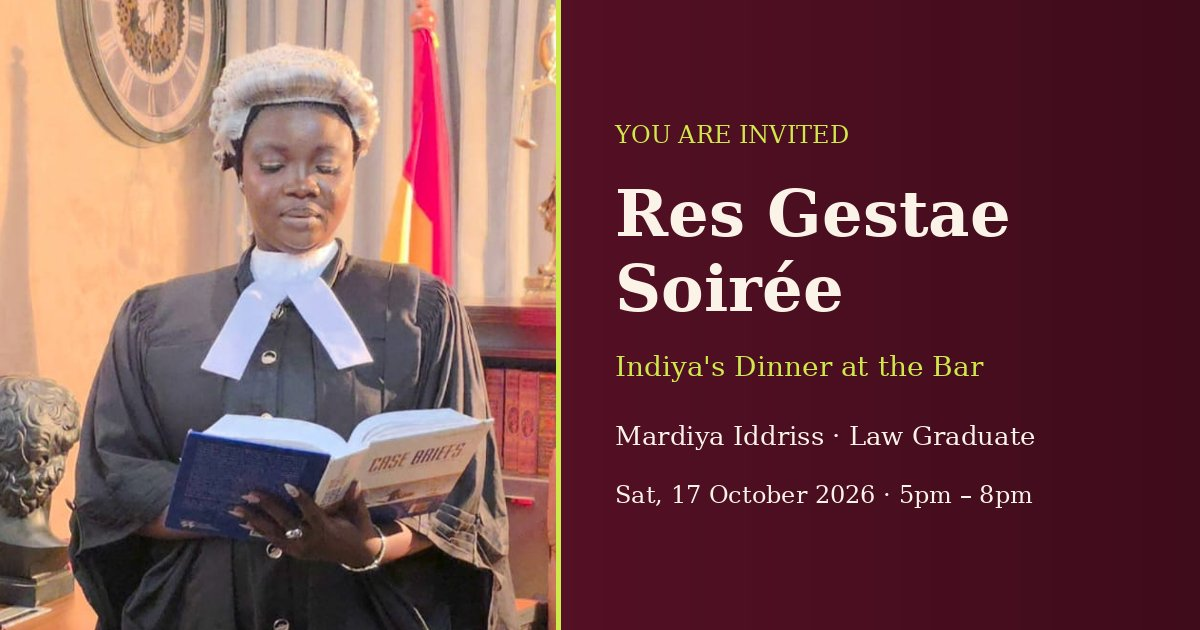
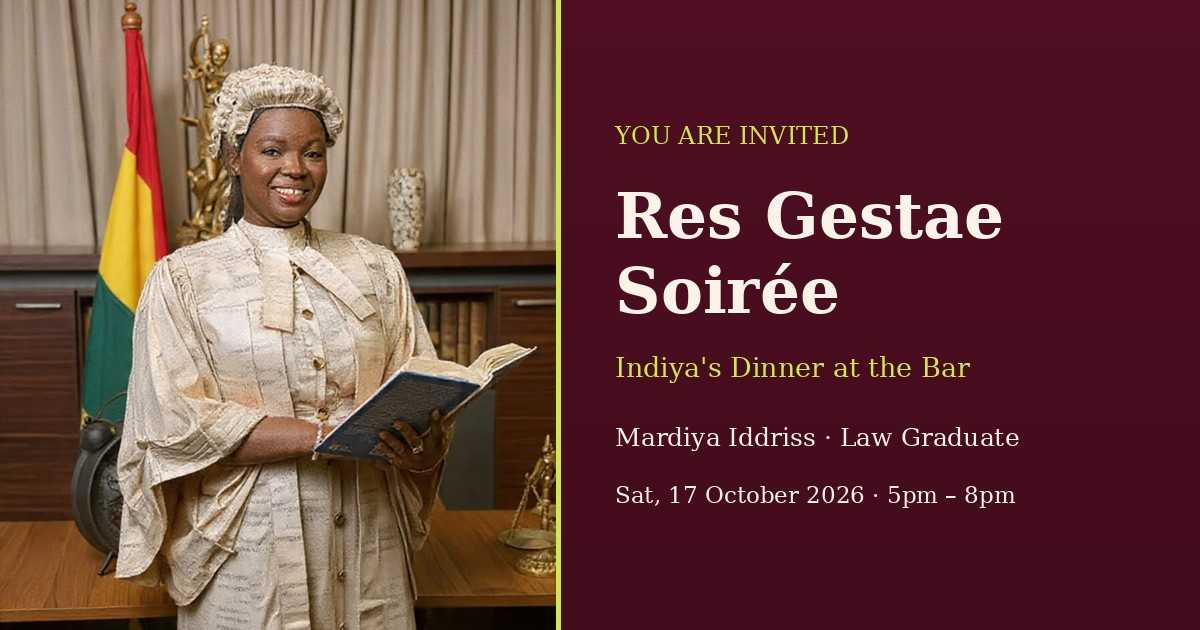
Add files via upload

diff --git a/index.html b/index.html
@@ -54,16 +54,27 @@
 
   /* hero */
   .hero{
-    position:relative; min-height:100svh; display:flex; flex-direction:column; align-items:center; justify-content:center;
-    text-align:center; padding:110px 24px 100px; color:var(--hero-text); overflow:hidden;
+    position:relative; display:flex; flex-direction:column; color:var(--hero-text); overflow:hidden;
     background:linear-gradient(180deg, #5e1428 0%, #4a0f20 50%, #3f0c1b 100%), var(--wine-deep);
+  }
+  .hero-photo{position:relative; width:100%; aspect-ratio:4/4.7; max-height:74svh; animation:fade 1.4s ease both;}
+  .hero-photo img{display:block; width:100%; height:100%; object-fit:cover; object-position:50% 26%;
+    -webkit-mask-image:linear-gradient(180deg,#000 52%,transparent 100%); mask-image:linear-gradient(180deg,#000 52%,transparent 100%);}
+  .hero-photo::after{content:""; position:absolute; inset:0; pointer-events:none; background:linear-gradient(180deg,rgba(63,12,27,.28) 0%,transparent 30%);}
+  .hero-text{position:relative; display:flex; flex-direction:column; align-items:center; text-align:center; padding:0 24px 84px; margin-top:-56px;}
+  .hero-text > *{position:relative; animation:up .9s ease both;}
+  .hero-text .eyebrow,.hero-text .prog{text-shadow:0 2px 14px rgba(40,6,16,.65);}
+  @keyframes fade{from{opacity:0;}to{opacity:1;}}
+  @media (min-width:900px){
+    .hero{display:grid; grid-template-columns:1.05fr 1fr; min-height:100svh;}
+    .hero-photo{aspect-ratio:auto; max-height:none; height:100%;}
+    .hero-photo img{position:absolute; inset:0; object-position:50% 22%;
+      -webkit-mask-image:linear-gradient(90deg,#000 62%,transparent 100%); mask-image:linear-gradient(90deg,#000 62%,transparent 100%);}
+    .hero-photo::after{background:linear-gradient(180deg,rgba(63,12,27,.3) 0%,transparent 25%);}
+    .hero-text{margin:0; padding:90px 56px 90px 8px; justify-content:center;}
   }
   .hero::before{content:""; position:absolute; inset:14px; border:1px solid rgba(207,232,74,.7); pointer-events:none;}
   .hero::after{content:""; position:absolute; inset:21px; border:1px solid rgba(207,232,74,.28); pointer-events:none;}
-  .hero > *{position:relative; animation:up .9s ease both;}
-  .hero > .corner{position:absolute; width:clamp(78px,24vw,130px); height:auto; pointer-events:none; animation:none; z-index:1;}
-  .corner.tl{top:22px; left:22px;} .corner.tr{top:22px; right:22px;}
-  .corner.bl{bottom:22px; left:22px;} .corner.br{bottom:22px; right:22px;}
   @keyframes up{from{opacity:0; transform:translateY(14px);}to{opacity:1; transform:none;}}
   .hero .eyebrow{color:var(--lime);}
   .prog{font-family:'Pinyon Script',cursive; font-size:clamp(54px,15vw,92px); line-height:1; margin:18px 0 4px; color:var(--hero-text);}
@@ -177,8 +188,6 @@
   .photo .ph{border-radius:999px 999px 6px 6px;}
   .photo .ph::after{display:none;}
   .portrait .cap-top{position:absolute; top:-40px; left:50%; width:104px; transform:translateX(-50%); z-index:3; filter:drop-shadow(0 4px 6px rgba(0,0,0,.35));}
-  .portrait .fl-bl,.portrait .fl-br{position:absolute; bottom:-26px; width:116px; z-index:3; filter:drop-shadow(0 3px 5px rgba(63,12,27,.35));}
-  .portrait .fl-bl{left:-16px;} .portrait .fl-br{right:-16px;}
   .caption{text-align:center; margin-top:34px; font-family:'Pinyon Script',cursive; font-size:34px; color:var(--lime-deep);}
 
   /* meaning band */
@@ -215,12 +224,27 @@
   /* footer */
   footer{position:relative; background:linear-gradient(180deg,#4a0f20,#3f0c1b); border-top:1px solid rgba(207,232,74,.5); padding-top:56px;}
   footer .cap-f{width:86px; display:block; margin:0 auto 6px;}
-  footer .fl-row{display:flex; justify-content:center; gap:14px; margin-top:16px;}
-  footer .fl-row svg{width:26px; height:26px;}
+
+  /* gallery: tap-through slideshow */
+  .gal{max-width:380px; margin:34px auto 0; text-align:center;}
+  .gal-frame{position:relative; padding:9px; cursor:pointer; -webkit-tap-highlight-color:transparent; touch-action:pan-y; user-select:none;
+    border:1px solid var(--lime-deep); border-radius:999px 999px 14px 14px; background:var(--card); box-shadow:var(--shadow), 0 0 0 7px var(--bg), 0 0 0 8px var(--line);}
+  .gal-frame:focus-visible{outline:2px solid var(--lime-deep); outline-offset:10px;}
+  .gal-stage{position:relative; aspect-ratio:2/3; overflow:hidden; border-radius:999px 999px 6px 6px; background:var(--wine-deep);}
+  .gal-stage img{position:absolute; inset:0; width:100%; height:100%; object-fit:cover; object-position:50% 22%; opacity:0; transition:opacity .6s ease; pointer-events:none;}
+  .gal-stage img.on{opacity:1;}
+  .gal-bar{display:flex; align-items:center; justify-content:center; gap:16px; margin-top:34px;}
+  .gb{width:42px; height:42px; border-radius:50%; border:1px solid var(--lime-deep); background:transparent; color:var(--ink); font-size:24px; line-height:1; cursor:pointer; transition:background .2s,color .2s;}
+  .gb:hover{background:var(--lime); color:var(--wine-deep);}
+  .gb:focus-visible,.gal-dots button:focus-visible{outline:2px solid var(--lime-deep); outline-offset:3px;}
+  .gal-dots{display:flex; gap:10px; align-items:center;}
+  .gal-dots button{position:relative; width:9px; height:9px; padding:0; border-radius:50%; border:1px solid var(--lime-deep); background:transparent; cursor:pointer; transition:transform .2s, background .2s;}
+  .gal-dots button::after{content:""; position:absolute; inset:-9px;}
+  .gal-dots button.on{background:var(--lime-deep); transform:scale(1.3);}
   .mute:focus-visible{outline:2px solid var(--lime-deep); outline-offset:2px;}
 </style>
 <script>document.documentElement.classList.add("js")</script>
-<noscript><style>#env{display:none!important;} body.locked{overflow:auto!important; height:auto!important;} .hero > *{animation:none!important;}</style></noscript>
+<noscript><style>#env{display:none!important;} body.locked{overflow:auto!important; height:auto!important;} .hero-text > *,.hero-photo{animation:none!important;}</style></noscript>
 </head>
 <body class="locked">
 <audio id="bg" loop preload="none" src="song.mp3"></audio>
@@ -243,22 +267,6 @@
 
 <svg width="0" height="0" style="position:absolute" aria-hidden="true" focusable="false">
   <defs>
-    <g id="fl"><g fill="currentColor"><circle cx="0" cy="-6" r="5"/><circle cx="5.7" cy="-1.9" r="5"/><circle cx="3.5" cy="4.9" r="5"/><circle cx="-3.5" cy="4.9" r="5"/><circle cx="-5.7" cy="-1.9" r="5"/></g><circle r="3" fill="#cfe84a"/></g>
-    <g id="flowers">
-      <g fill="#9bb52a">
-        <ellipse cx="46" cy="14" rx="11" ry="4" transform="rotate(12 46 14)"/>
-        <ellipse cx="14" cy="46" rx="4" ry="11" transform="rotate(-12 14 46)"/>
-        <ellipse cx="64" cy="22" rx="9" ry="3.4" transform="rotate(24 64 22)"/>
-        <ellipse cx="22" cy="64" rx="3.4" ry="9" transform="rotate(-24 22 64)"/>
-        <ellipse cx="40" cy="36" rx="8" ry="3.2" transform="rotate(45 40 36)"/>
-      </g>
-      <use href="#fl" x="22" y="22" style="color:#fbf3e8" transform="translate(22 22) scale(1.35) translate(-22 -22)"/>
-      <use href="#fl" x="50" y="14" style="color:#e9a3b4" transform="translate(50 14) scale(.85) translate(-50 -14)"/>
-      <use href="#fl" x="14" y="50" style="color:#e9a3b4" transform="translate(14 50) scale(.85) translate(-14 -50)"/>
-      <use href="#fl" x="42" y="42" style="color:#fbf3e8" transform="translate(42 42) scale(.75) translate(-42 -42)"/>
-      <use href="#fl" x="72" y="12" style="color:#fbf3e8" transform="translate(72 12) scale(.55) translate(-72 -12)"/>
-      <use href="#fl" x="12" y="72" style="color:#fbf3e8" transform="translate(12 72) scale(.55) translate(-12 -72)"/>
-    </g>
     <g id="cap">
       <path d="M48 60 V72 Q64 82 80 72 V60 Z" fill="#241019" stroke="#fbf3e8" stroke-width="1.2" stroke-linejoin="round"/>
       <polygon points="64,42 96,55 64,68 32,55" fill="#1a0a11" stroke="#fbf3e8" stroke-width="1.4" stroke-linejoin="round"/>
@@ -269,10 +277,8 @@
   </defs>
 </svg>
 <header class="hero">
-  <svg class="corner tl" viewBox="0 0 120 120" aria-hidden="true"><use href="#flowers"/><use href="#cap"/></svg>
-  <svg class="corner tr" viewBox="0 0 120 120" aria-hidden="true"><use href="#flowers" transform="translate(120 0) scale(-1 1)"/><use href="#cap" transform="translate(120 0) scale(-1 1)"/></svg>
-  <svg class="corner bl" viewBox="0 0 120 120" aria-hidden="true"><use href="#flowers" transform="translate(0 120) scale(1 -1)"/><use href="#cap" transform="translate(0 10)"/></svg>
-  <svg class="corner br" viewBox="0 0 120 120" aria-hidden="true"><use href="#flowers" transform="translate(120 120) scale(-1 -1)"/><use href="#cap" transform="translate(120 10) scale(-1 1)"/></svg>
+  <div class="hero-photo"><img src="images/Lady1.jpeg" alt="Mardiya Iddriss seated at her desk in a white blazer and barrister's wig" width="876" height="1280" fetchpriority="high" decoding="async"></div>
+  <div class="hero-text">
   <span class="eyebrow">You are cordially invited</span>
   <h1 class="prog">Res Gestae Soirée</h1>
   <p class="sub">Indiya's Dinner at the Bar</p>
@@ -290,6 +296,7 @@
   <p class="live" id="live" role="status">Tonight's the night ✦</p>
   <p class="thanks" id="thanks">Thank you for celebrating with us ✦<br>With love, Mardiya Iddriss Esq.</p>
   <p class="cue">Scroll for details ✦</p>
+  </div>
 </header>
 
 <section style="padding-bottom:84px">
@@ -299,11 +306,9 @@
       <svg class="cap-top" viewBox="28 36 72 52" aria-hidden="true"><use href="#cap"/></svg>
       <div class="photo">
         <div class="ph">
-          <img src="images/graduate.jpg" alt="Mardiya Iddriss in her law gown and wig" width="800" height="1000" loading="lazy" decoding="async">
+          <img src="images/lady5.jpeg" alt="Mardiya Iddriss in her law gown and wig" width="800" height="1000" loading="lazy" decoding="async">
         </div>
       </div>
-      <svg class="fl-bl" viewBox="0 0 90 90" aria-hidden="true"><use href="#flowers" transform="translate(0 90) scale(1 -1)"/></svg>
-      <svg class="fl-br" viewBox="0 0 90 90" aria-hidden="true"><use href="#flowers" transform="translate(90 90) scale(-1 -1)"/></svg>
     </div>
     <div class="caption rv">Indiya</div>
   </div>
@@ -314,6 +319,28 @@
   <p class="def">“Things done.” An evening to celebrate everything she has worked for, and the road ahead at the Bar.</p>
   <span class="tiny">✦ &nbsp; Dinner · Laughter · Celebration &nbsp; ✦</span>
 </div>
+
+<section>
+  <div class="wrap">
+    <div class="head rv"><span class="eyebrow">Gallery</span><h2>Moments To Remember</h2><div class="rule"></div></div>
+    <div class="gal rv d1" aria-roledescription="carousel" aria-label="Photo gallery">
+      <div class="gal-frame" id="galFrame" tabindex="0" role="button" aria-label="Photo gallery. Press for the next photo">
+        <div class="gal-stage">
+          <img class="on" src="images/lady4.jpeg" alt="Mardiya Iddriss smiling in a cream gown and wig, holding an open book" width="862" height="1280" decoding="async">
+          <img src="images/lady2.jpeg" alt="Mardiya Iddriss seated in her black gown and wig beside large white letters" width="858" height="1280" decoding="async">
+          <img src="images/lady5.jpeg" alt="Mardiya Iddriss seated at her desk in a white blazer and barrister's wig" width="876" height="1280" decoding="async">
+          <img src="images/graduate.jpg" alt="Mardiya Iddriss in her law gown and wig" width="800" height="1000" decoding="async">
+          <!-- To add a photo, copy one <img> line above, change src and alt. Photos without a file are skipped automatically. -->
+        </div>
+      </div>
+      <div class="gal-bar">
+        <button class="gb" type="button" id="galP" aria-label="Previous photo">&#8249;</button>
+        <div class="gal-dots" id="galDots"></div>
+        <button class="gb" type="button" id="galN" aria-label="Next photo">&#8250;</button>
+      </div>
+    </div>
+  </div>
+</section>
 
 <section>
   <div class="wrap">
@@ -342,8 +369,8 @@
     <div class="head rv"><span class="eyebrow">Kindly Respond</span><h2>RSVP</h2><div class="rule"></div></div>
     <div class="card rv d1">
       <p>Please confirm your attendance by calling or messaging on WhatsApp.</p>
-      <div class="num"><span>0595 532 439</span><div class="btns"><a class="btn" href="tel:+233595532439">Call</a><a class="btn alt" href="https://wa.me/233595532439?text=Hello%2C%20I%20will%20be%20attending%20the%20Res%20Gestae%20Soir%C3%A9e%20on%2017%20October." target="_blank" rel="noopener">WhatsApp</a></div></div>
-      <div class="num"><span>0555 239 536</span><div class="btns"><a class="btn" href="tel:+233555239536">Call</a><a class="btn alt" href="https://wa.me/233555239536?text=Hello%2C%20I%20will%20be%20attending%20the%20Res%20Gestae%20Soir%C3%A9e%20on%2017%20October." target="_blank" rel="noopener">WhatsApp</a></div></div>
+      <div class="num"><span>059-5532-439</span><div class="btns"><a class="btn" href="tel:+233595532439">Call</a><a class="btn alt" href="https://wa.me/233595532439?text=Hello%2C%20I%20will%20be%20attending%20the%20Res%20Gestae%20Soir%C3%A9e%20on%2017%20October." target="_blank" rel="noopener">WhatsApp</a></div></div>
+      <div class="num"><span>055-5239-536</span><div class="btns"><a class="btn" href="tel:+233555239536">Call</a><a class="btn alt" href="https://wa.me/233555239536?text=Hello%2C%20I%20will%20be%20attending%20the%20Res%20Gestae%20Soir%C3%A9e%20on%2017%20October." target="_blank" rel="noopener">WhatsApp</a></div></div>
     </div>
   </div>
 </section>
@@ -352,11 +379,6 @@
   <svg class="cap-f" viewBox="28 36 72 52" aria-hidden="true"><use href="#cap"/></svg>
   <div class="mono">Res Gestae</div>
   <p>Dinner, laughter, and a law graduate to celebrate.</p>
-  <div class="fl-row" aria-hidden="true">
-    <svg viewBox="-12 -12 24 24"><use href="#fl" style="color:#e9a3b4"/></svg>
-    <svg viewBox="-12 -12 24 24"><use href="#fl" style="color:#fbf3e8"/></svg>
-    <svg viewBox="-12 -12 24 24"><use href="#fl" style="color:#e9a3b4"/></svg>
-  </div>
 </footer>
 
 <script>
@@ -377,6 +399,56 @@
       if(bg.paused){ bg.play(); on.style.display='block'; off.style.display='none'; }
       else { bg.pause(); on.style.display='none'; off.style.display='block'; }
     });
+  })();
+
+  (function(){
+    var frame=document.getElementById('galFrame'); if(!frame) return;
+    var stage=frame.querySelector('.gal-stage'), dots=document.getElementById('galDots');
+    var slides=[].slice.call(stage.querySelectorAll('img')), cur=0, sx=null, swiped=false;
+    var DELAY=4000, timer=null, seen=!('IntersectionObserver' in window), still=window.matchMedia && matchMedia('(prefers-reduced-motion: reduce)').matches;
+    function render(){
+      slides.forEach(function(im,i){ im.classList.toggle('on',i===cur); });
+      [].forEach.call(dots.children,function(d,i){ d.classList.toggle('on',i===cur); });
+    }
+    function build(){
+      dots.innerHTML='';
+      slides.forEach(function(_,i){
+        var b=document.createElement('button'); b.type='button'; b.setAttribute('aria-label','Show photo '+(i+1));
+        b.addEventListener('click',function(){ go(i); }); dots.appendChild(b);
+      });
+      document.getElementById('galP').style.visibility=document.getElementById('galN').style.visibility=slides.length>1?'visible':'hidden';
+    }
+    function stop(){ clearTimeout(timer); timer=null; }
+    function start(){
+      stop();
+      if(slides.length>1 && seen && !still && !document.hidden) timer=setTimeout(function(){ go(cur+1); },DELAY);
+    }
+    function go(i){ if(!slides.length) return; cur=(i+slides.length)%slides.length; render(); start(); }
+    function drop(im){
+      var k=slides.indexOf(im); if(k<0) return;
+      slides.splice(k,1); im.remove(); if(cur>=slides.length) cur=0; build(); render();
+    }
+    slides.slice().forEach(function(im){
+      im.addEventListener('error',function(){ drop(im); });
+      if(im.complete && im.naturalWidth===0 && im.getAttribute('src')) drop(im);
+    });
+    build(); render();
+    if('IntersectionObserver' in window){
+      new IntersectionObserver(function(en){ seen=en[0].isIntersecting; if(seen) start(); else stop(); },{threshold:.3}).observe(frame);
+    } else { start(); }
+    document.addEventListener('visibilitychange',function(){ if(document.hidden) stop(); else start(); });
+    frame.addEventListener('click',function(){ if(swiped){ swiped=false; return; } go(cur+1); });
+    frame.addEventListener('keydown',function(e){
+      if(e.key==='Enter'||e.key===' '||e.key==='ArrowRight'){ e.preventDefault(); go(cur+1); }
+      if(e.key==='ArrowLeft'){ e.preventDefault(); go(cur-1); }
+    });
+    frame.addEventListener('touchstart',function(e){ sx=e.touches[0].clientX; swiped=false; },{passive:true});
+    frame.addEventListener('touchend',function(e){
+      if(sx===null) return; var dx=e.changedTouches[0].clientX-sx; sx=null;
+      if(Math.abs(dx)>40){ swiped=true; go(cur+(dx<0?1:-1)); }
+    });
+    document.getElementById('galP').addEventListener('click',function(){ go(cur-1); });
+    document.getElementById('galN').addEventListener('click',function(){ go(cur+1); });
   })();
 
   (function(){
